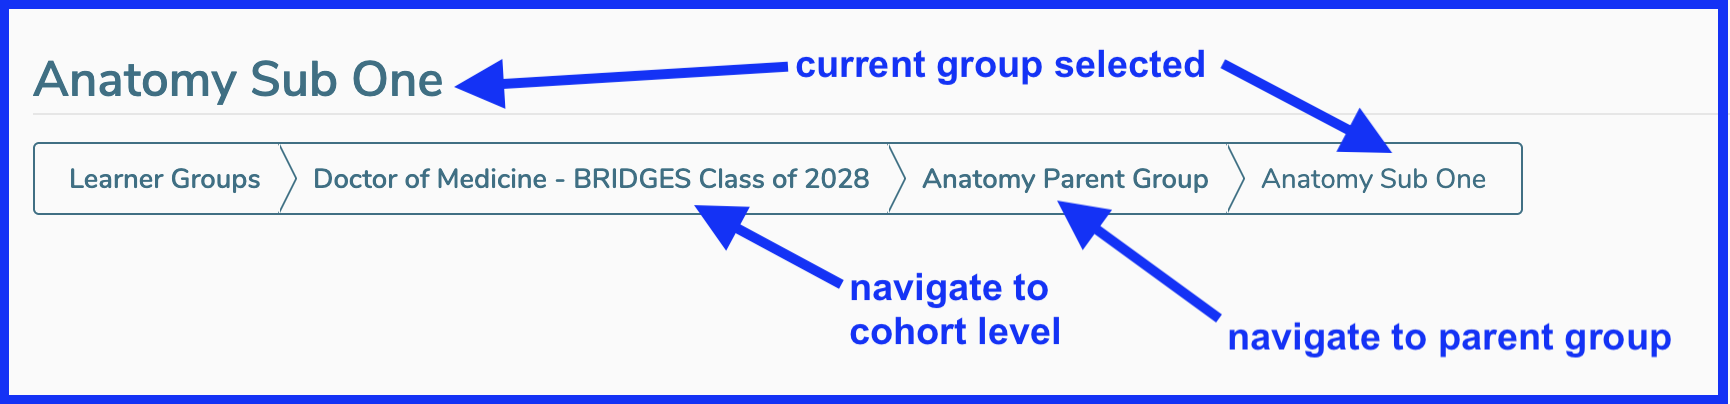
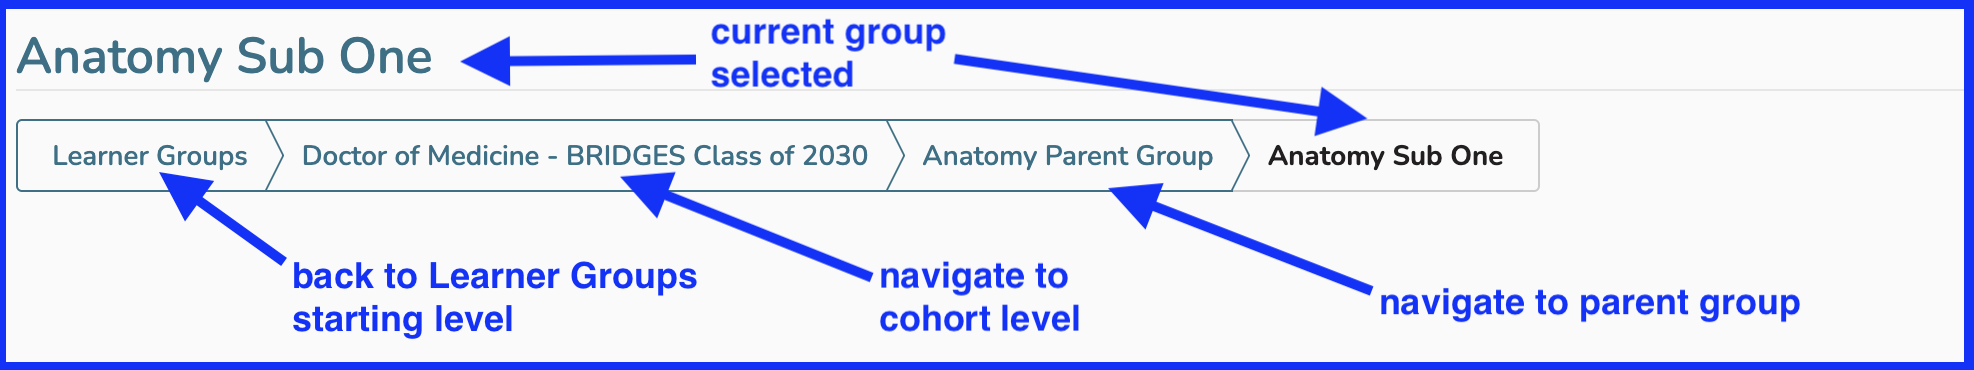
image updated - slight text edit too

diff --git a/learner-groups/README.md b/learner-groups/README.md
@@ -5,7 +5,7 @@ This denotes a collection of Learners which can be associated with Sessions, Off
 ## Attributes
 
 * **Title** - The name of the Learner Group - Text field description of the Learner Group. This can be modified by clicking on the linked title and making edits to the text in-line right there and saving using a mouse-click confirmation or "return" or "enter" on the keyboard.
-* **Breadcrumbs** - Breadcrumbs are provided next in the vertical flow of the page. These provide navigation to parent (or grandparent) groups and the relative location of the selected group. 
+* **Breadcrumbs** - Breadcrumbs are provided next in the vertical flow of the page. These provide navigation to parent (or grandparent) groups and the relative location of the selected displayed group. 
 ![breadcrumbs - displayed](../images/learner_group_README/breadcrumbs_displayed.png)
 * [**Needs Accommodation**](https://iliosproject.gitbook.io/ilios-user-guide/learner-groups/learner-group-defaults#needs-accommodation) - Toggled when one or more learners in any given group (or sub group) need accommodation or additional resources in order to participate successfully in virtual learning events.
 * [**Default Location**](https://iliosproject.gitbook.io/ilios-user-guide/learner-groups/learner-group-defaults#default-location) - Shown in display as the location of record for activities to which a group is associated when no other location is identified. Just as with Default Instructor, this only applies to Small Group Offerings.
